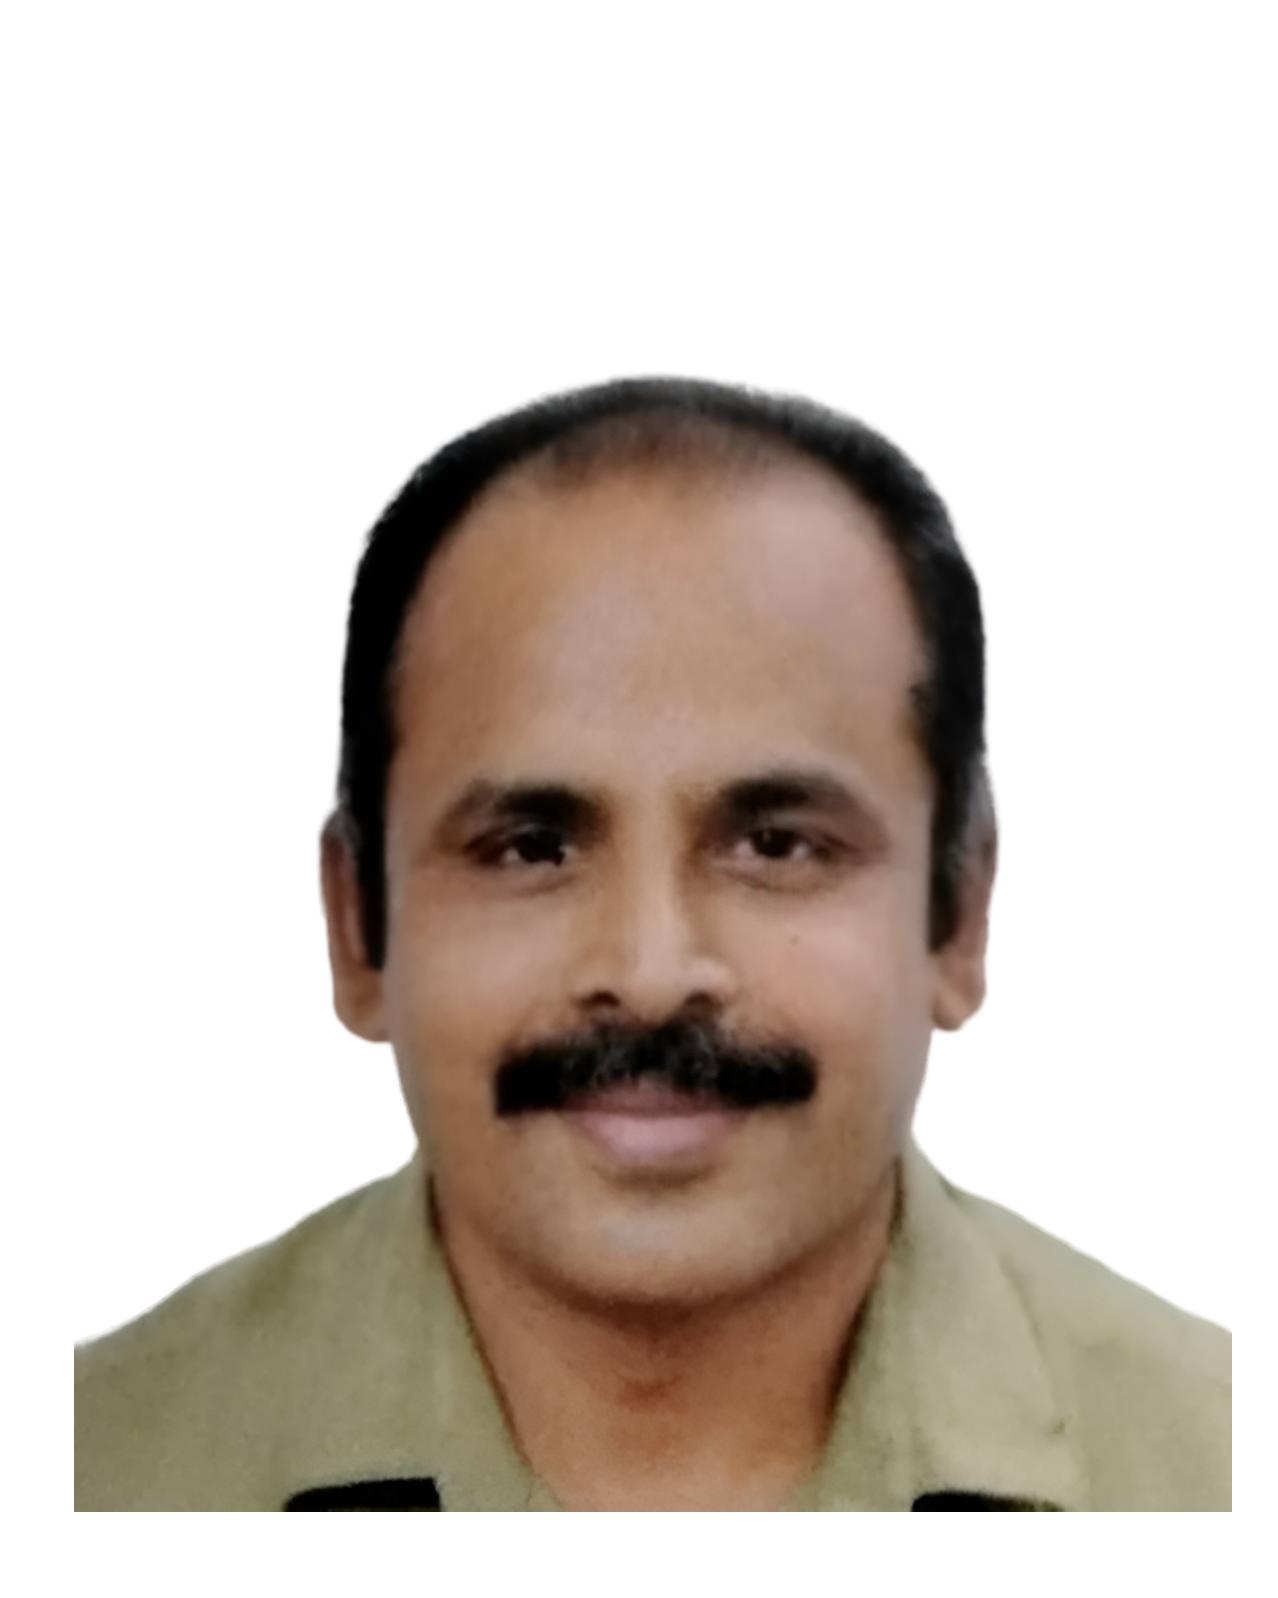
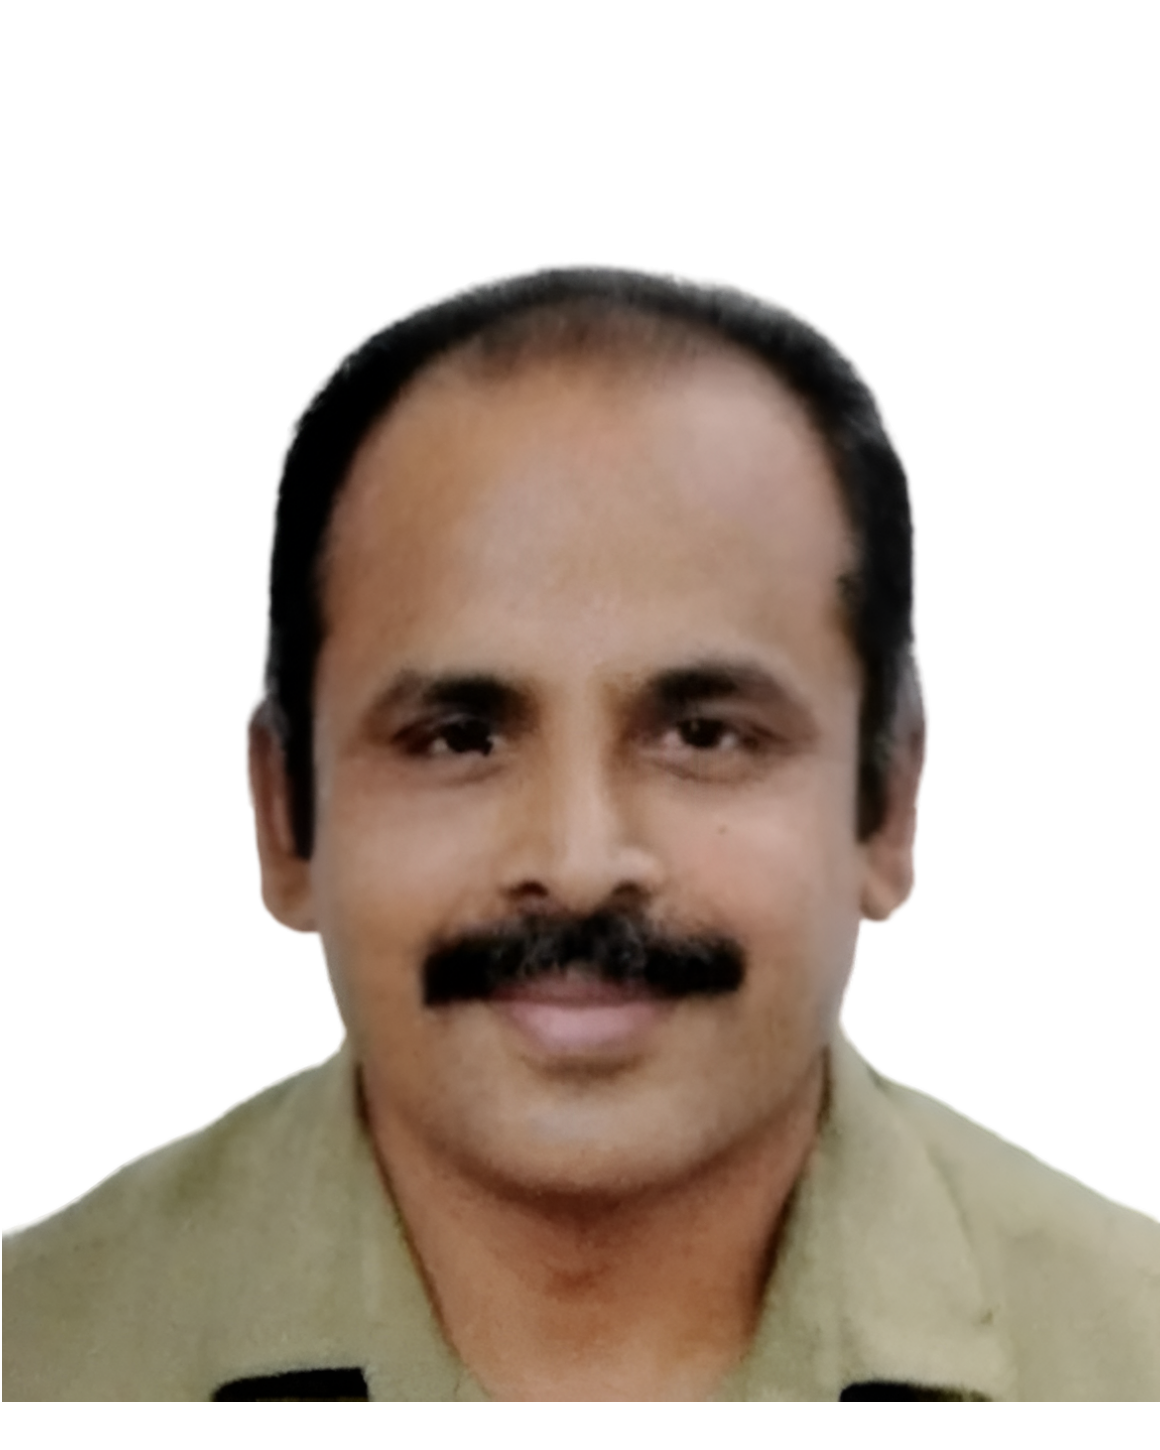
updated committee page

Changed region(s): [[0.0, 0.1552, 1.0, 0.9931], [0.8379, 0.7759, 0.9, 0.8069], [0.6207, 0.3414, 0.6517, 0.3724]]

diff --git a/app/committee/page.tsx b/app/committee/page.tsx
@@ -15,43 +15,44 @@ interface CommitteeMember {
 const CommitteeCard = ({ member, index }: { member: CommitteeMember; index: number }) => {
   return (
     <div 
-      className="group relative rounded-xl overflow-hidden h-80 sm:h-80 md:h-80 lg:h-96 shadow-2xl cursor-pointer transition-all duration-300 hover:shadow-2xl hover:-translate-y-1 animate-fade-in-up" 
+      className="group rounded-2xl overflow-hidden shadow-2xl cursor-pointer transition-all duration-300 hover:shadow-2xl hover:-translate-y-2 animate-fade-in-up flex flex-col border border-blue-500/40 hover:border-blue-400/60 relative"
       style={{
-        background: 'linear-gradient(135deg, #0a0f2c 0%, #0f1f4a 50%, #1a3a6a 100%), radial-gradient(ellipse at center, transparent 20%, rgba(5, 15, 40, 0.95) 100%)', 
-        boxShadow: '0 20px 50px rgba(0, 0, 0, 0.8), inset 0 -10px 30px rgba(0, 0, 0, 0.5)',
-        animationDelay: `${index * 100}ms`
+        animationDelay: `${index * 100}ms`,
+        boxShadow: '0 20px 40px rgba(0, 0, 0, 0.4), 0 25px 50px rgba(59, 130, 246, 0.1)'
       }}
-    >      {/* Background Image */}
-      <img 
-        src={member.image}
-        alt={member.name}
-        className="w-full h-full object-cover transition-transform duration-500 group-hover:scale-110"
-        onError={(e) => {
-          e.currentTarget.src = `https://placehold.co/400x510/475569/f8fafc?text=${encodeURIComponent(member.name)}`
-        }}
-      />
+    >
+      {/* Glossy Overlay */}
+      <div className="absolute inset-0 bg-gradient-to-b from-blue-400/10 via-blue-300/5 to-transparent pointer-events-none rounded-2xl z-20"></div>      
+      {/* Image Container - Fixed Height - Same ratio across all screens */}
+      <div className="relative w-full aspect-square overflow-hidden bg-gradient-to-br from-slate-850 via-blue-850 to-slate-950 flex-shrink-0">
+        <img 
+          src={member.image}
+          alt={member.name}
+          className="w-full h-full object-cover transition-transform duration-500 group-hover:scale-105"
+          onError={(e) => {
+            e.currentTarget.src = `https://placehold.co/400x510/1e3a5f/f8fafc?text=${encodeURIComponent(member.name)}`
+          }}
+        />
+      </div>
 
-      {/* Premium Dark Overlay Gradient */}
-      <div className="absolute inset-0 bg-gradient-to-t from-black/95 via-black/40 to-black/10 transition-opacity duration-300 group-hover:from-black/98 group-hover:via-black/50"></div>
-
-      {/* Text Content - Bottom Overlay */}
-      <div className="absolute bottom-0 left-0 w-full p-4 sm:p-6 md:p-6 lg:p-8">
-        <h2 className="text-xl sm:text-2xl md:text-2xl lg:text-2xl font-bold text-white mb-1 transition-transform duration-300 group-hover:translate-y-0 translate-y-1 line-clamp-2">
-          {member.name}
-        </h2>
-        <div className="flex items-center gap-2 sm:gap-3">
-          <p className="text-sm sm:text-base md:text-base lg:text-base text-gray-200 font-medium transition-transform duration-300 group-hover:translate-y-0 translate-y-1 line-clamp-1">
+      {/* Text Content Box - Below Image */}
+      <div className="bg-gradient-to-b from-slate-800 via-slate-850 to-slate-900 p-2 sm:p-3 md:p-4 lg:p-5 flex-grow flex flex-col justify-center items-center text-center border-t-2 border-blue-500/30 transition-all duration-300 group-hover:from-slate-700 group-hover:via-slate-800 group-hover:to-slate-850">
+        <div className="w-full">
+          <h2 className="text-xs sm:text-sm md:text-base lg:text-base font-bold text-white line-clamp-2 group-hover:text-blue-300 transition-colors duration-300 mb-1">
+            {member.name}
+          </h2>
+          <p className="text-xs sm:text-xs md:text-sm lg:text-sm text-blue-300 font-semibold line-clamp-1 group-hover:text-blue-200 transition-colors duration-300 mb-2">
             {member.role}
           </p>
-          {/* LinkedIn Icon */}
+          {/* LinkedIn Icon - Round and Below */}
           <a
             href={member.linkedin}
             target="_blank"
             rel="noopener noreferrer"
-            className="inline-flex items-center justify-center w-6 h-6 sm:w-8 sm:h-8 md:w-8 md:h-8 lg:w-8 lg:h-8 rounded-full bg-blue-500/20 hover:bg-blue-500/40 text-blue-300 hover:text-white transition-all duration-300 transform hover:scale-110 flex-shrink-0"
+            className="inline-flex items-center justify-center w-9 h-9 sm:w-9 sm:h-9 md:w-10 md:h-10 lg:w-10 lg:h-10 rounded-full bg-gradient-to-br from-blue-600/60 to-blue-700/60 hover:from-blue-500 hover:to-blue-600 text-blue-100 hover:text-white transition-all duration-300 transform hover:scale-125 shadow-lg"
             title={`${member.name}'s LinkedIn Profile`}
           >
-            <svg className="w-3 h-3 sm:w-4 sm:h-4 md:w-4 md:h-4 lg:w-4 lg:h-4" fill="currentColor" viewBox="0 0 24 24">
+            <svg className="w-4 h-4 sm:w-4 sm:h-4 md:w-5 md:h-5 lg:w-5 lg:h-5" fill="currentColor" viewBox="0 0 24 24">
               <path d="M20.447 20.452h-3.554v-5.569c0-1.328-.027-3.037-1.852-3.037-1.853 0-2.136 1.445-2.136 2.939v5.667H9.351V9h3.414v1.561h.046c.477-.9 1.637-1.85 3.37-1.85 3.601 0 4.267 2.37 4.267 5.455v6.286zM5.337 7.433c-1.144 0-2.063-.926-2.063-2.065 0-1.138.92-2.063 2.063-2.063 1.14 0 2.064.925 2.064 2.063 0 1.139-.925 2.065-2.064 2.065zm1.782 13.019H3.555V9h3.564v11.452zM22.225 0H1.771C.792 0 0 .774 0 1.729v20.542C0 23.227.792 24 1.771 24h20.451C23.2 24 24 23.227 24 22.271V1.729C24 .774 23.2 0 22.222 0h.003z"/>
             </svg>
           </a>
@@ -71,7 +72,7 @@ export default function CommitteePage() {
       isFaculty: true
     },
     {
-      name: "Dr Gireesh Kumaran",
+      name: "Dr Gireesh Kumaran Thampi",
       role: "Faculty Advisor",
       image: "/committee/Gireesh_sir.png",
       linkedin: "https://www.linkedin.com/in/gireesh-kumaran-thampi-b-s-6711253b",
@@ -114,7 +115,7 @@ export default function CommitteePage() {
     {
       name: "Muhammad Aslam",
       role: "Technical Head",
-      image: "/committee/aslam (2).png",
+      image: "/committee/Aslam.png",
       linkedin: "https://www.linkedin.com/in/muhammad-aslam-a1484a336"
     },
     {
@@ -132,7 +133,7 @@ export default function CommitteePage() {
       <main className="min-h-screen bg-gradient-to-br from-[#0f1729] via-[#0a0e1a] to-[#020614] relative">
         {/* Dot Grid Background */}
         <div 
-          className="fixed inset-0 pointer-events-none opacity-50"
+          className="fixed inset-0 pointer-events-none opacity-75"
           style={{
             backgroundImage: `
               radial-gradient(circle, rgba(96, 165, 250, 0.3) 1px, transparent 1px),
@@ -156,8 +157,8 @@ export default function CommitteePage() {
             <h2 className="text-3xl sm:text-4xl font-bold bg-gradient-to-r from-blue-300 to-cyan-300 bg-clip-text text-transparent">Faculty Advisors</h2>
           </div>
 
-          {/* Faculty Grid (2-col on tablet, 3-col on desktop) */}
-          <div className="grid grid-cols-1 md:grid-cols-2 lg:grid-cols-3 gap-6 sm:gap-8 max-w-6xl mx-auto mb-24 sm:mb-32">
+          {/* Faculty Grid (1-col on mobile, 2-col on tablet, 3-col on desktop) */}
+          <div className="grid grid-cols-1 md:grid-cols-2 lg:grid-cols-3 gap-4 sm:gap-6 max-w-sm sm:max-w-2xl md:max-w-4xl lg:max-w-5xl mx-auto mb-24 sm:mb-32">
             {facultyAdvisors.map((member, index) => (
               <CommitteeCard key={member.name} member={member} index={index} />
             ))}
@@ -168,8 +169,8 @@ export default function CommitteePage() {
             <h2 className="text-3xl sm:text-4xl font-bold bg-gradient-to-r from-blue-300 to-cyan-300 bg-clip-text text-transparent">Student Executive Committee</h2>
           </div>
 
-          {/* Student Grid (2-col on tablet, 3-col on desktop) */}
-          <div className="grid grid-cols-1 md:grid-cols-2 lg:grid-cols-3 gap-6 sm:gap-8 max-w-6xl mx-auto">
+          {/* Student Grid (1-col on mobile, 2-col on tablet, 3-col on desktop) */}
+          <div className="grid grid-cols-1 md:grid-cols-2 lg:grid-cols-3 gap-4 sm:gap-6 max-w-sm sm:max-w-2xl md:max-w-4xl lg:max-w-5xl mx-auto">
             {studentCommittee.map((member, index) => (
               <CommitteeCard key={member.name} member={member} index={index + facultyAdvisors.length} />
             ))}
